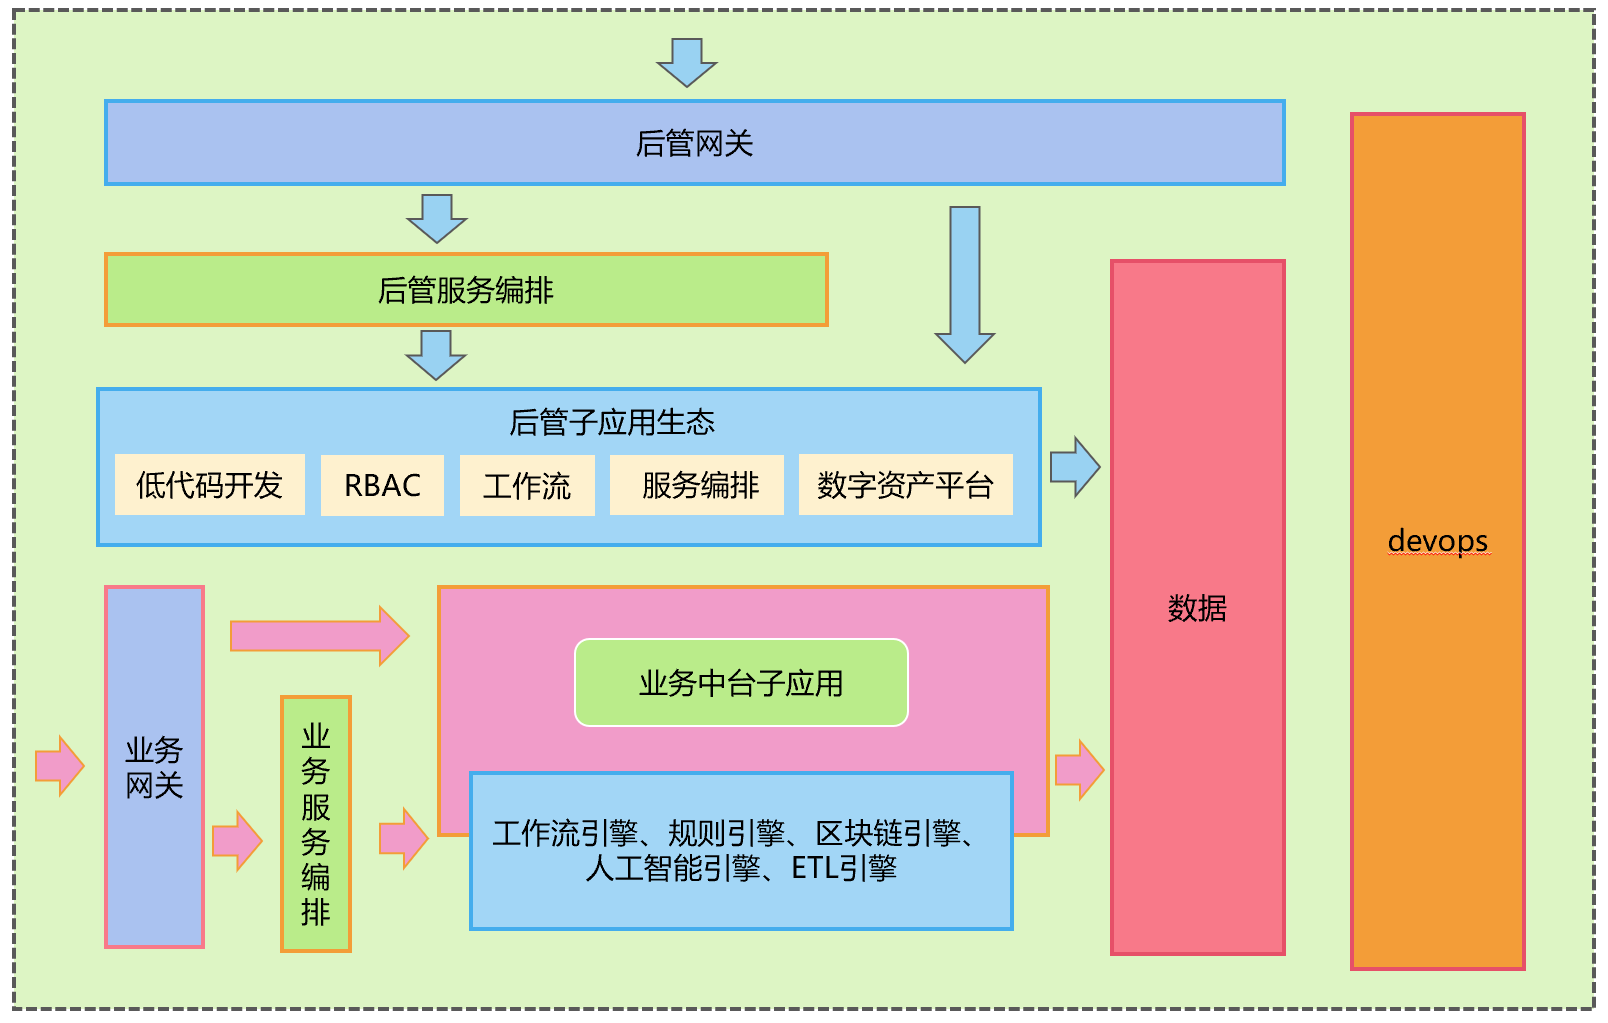
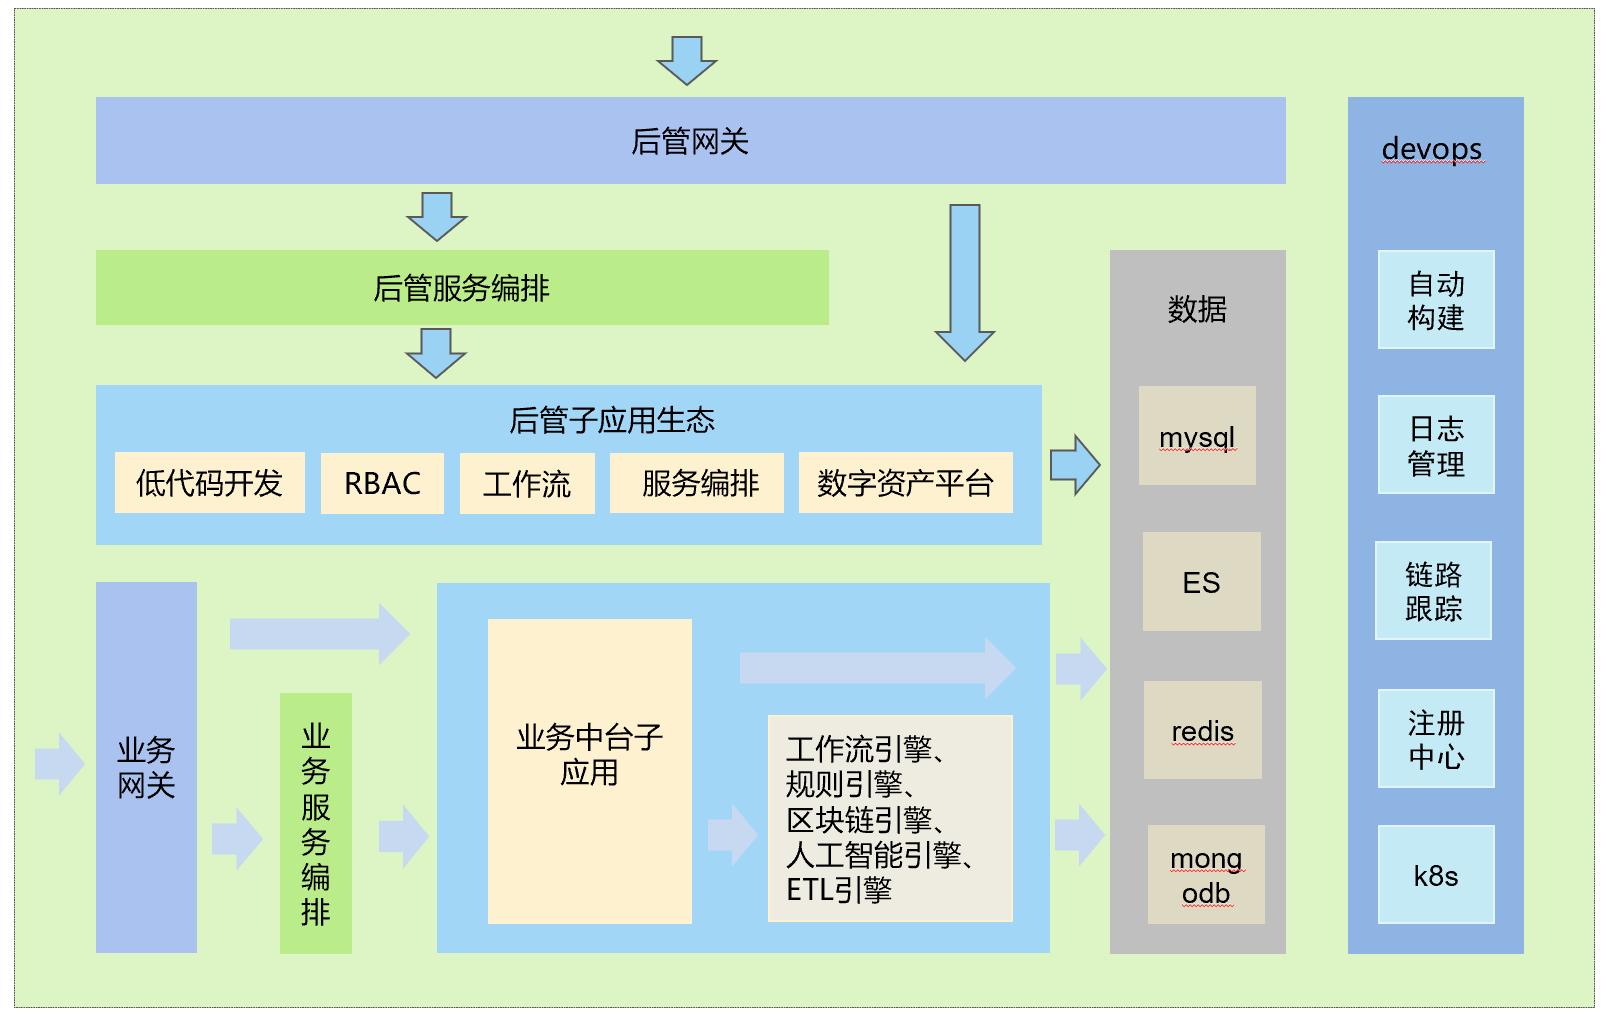
补充设计图

diff --git a/README.md b/README.md
@@ -41,6 +41,12 @@ http://h5.huoyuanshequ.com
 ## 平台总架构设计
 ![avatar](./doc/images/sys/架构设计.png)
 
+## 平台架构基于DDD设计理念
+![avatar](./doc/images/sys/DDD设计理念.png)
+
+## bsin-paas定位
+![avatar](./doc/images/sys/bsin-paas定位.png)
+
 ## 工程介绍
 * bsin-apps-container：微前端基座
 * bsin-server-targe-gateway：网关
